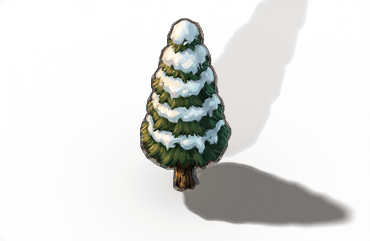
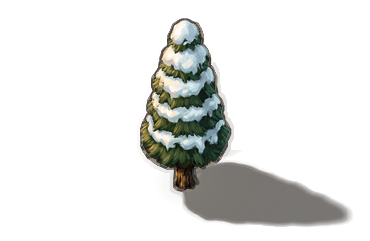
Calmer battle clusters, panel finish, wider map: count plates keep a fixed spot at their stack's front corner (dropping a little only to clear another plate), figures narrower to their hexes, low obstacles (thorns, boulders, craters, ice, logs) drawn on the ground under the units; a fleeing-knight R

Changed region(s): [[0.5649, 0.0, 0.8324, 0.639]]

diff --git a/tools/art/button_icons_paint.py b/tools/art/button_icons_paint.py
@@ -2,7 +2,8 @@
 overview, hero, sleep, move, spellbook, next hero, end turn, system; 4x2) and the battle bar (retreat, auto,
 defend; the battle reuses the spellbook and the hourglass).
 python tools/art/button_icons_paint.py paint [adventure|battle]   ->  imagegen/batch20/out/<sheet>.png
-python tools/art/button_icons_paint.py ingest [adventure|battle]  ->  assets/ui/btn_<name>.png (128 px, transparent)"""
+python tools/art/button_icons_paint.py ingest [adventure|battle]  ->  assets/ui/btn_<name>.png (128 px, transparent)
+(the "retreat" sheet paints eight takes of the retreat icon; the best is kept as btn_retreat.png by hand)"""
 import os, sys
 import numpy as np
 from PIL import Image
@@ -32,6 +33,9 @@ SHEETS = {"adventure": [
     ("ballista", "a wooden siege ballista on wheels, side view"),
     ("catapult", "a wooden siege catapult with a stone in its bucket, side view"),
     ("first_aid", "a small canvas field tent with a red cross on it"),
+], "retreat": [  # (the retreat icon again, not a white flag: that reads as surrender; one of these is kept)
+    (f"retreat_{k}", "a knight on a galloping horse riding away to the left, seen from the side, a small cloud of "
+     "dust behind the hooves") for k in "abcdefgh"
 ]}
 PROMPT = ("This is a blank icon sheet for a fantasy strategy game's interface: a flat magenta (#FF00FF) background "
           "divided into a 4 x 2 grid of equal square cells (4 columns, 2 rows). Paint exactly one icon in the centre of "

diff --git a/tools/art/tree_ghost_clean.py b/tools/art/tree_ghost_clean.py
@@ -1,0 +1,22 @@
+"""Removes the faint second shadow the tree renders cast up and to the right (it showed as a grey ghost on snow):
+faint pixels in the upper part of the sprite, away from the tree itself. The ground shadow at the foot stays.
+python tools/art/tree_ghost_clean.py"""
+import glob
+import numpy as np
+from PIL import Image, ImageFilter
+
+for f in sorted(glob.glob("assets/map/tree_*.png") + glob.glob("assets/map/snow_pine_*.png")):
+    im = Image.open(f).convert("RGBA")
+    px = np.asarray(im).copy()
+    a = px[..., 3].astype(np.int32)
+    solid = Image.fromarray(((a >= 120) * 255).astype(np.uint8))
+    near = np.asarray(solid.filter(ImageFilter.MaxFilter(7))) > 0
+    h = a.shape[0]
+    ys = np.arange(h)[:, None] * np.ones_like(a)
+    ghost = (a > 0) & (a < 120) & (~near) & (ys < h * 0.62)
+    px[ghost, 3] = 0
+    # and the faint haze over the whole canvas (a pale box on snow): the ground shadow keeps its body and soft edge
+    low = (~near) & (ys >= h * 0.62)
+    px[low, 3] = np.clip((a[low] - 22) * 1.2, 0, 255).astype(np.uint8)
+    Image.fromarray(px).save(f)
+    print(f, int(ghost.sum()))
